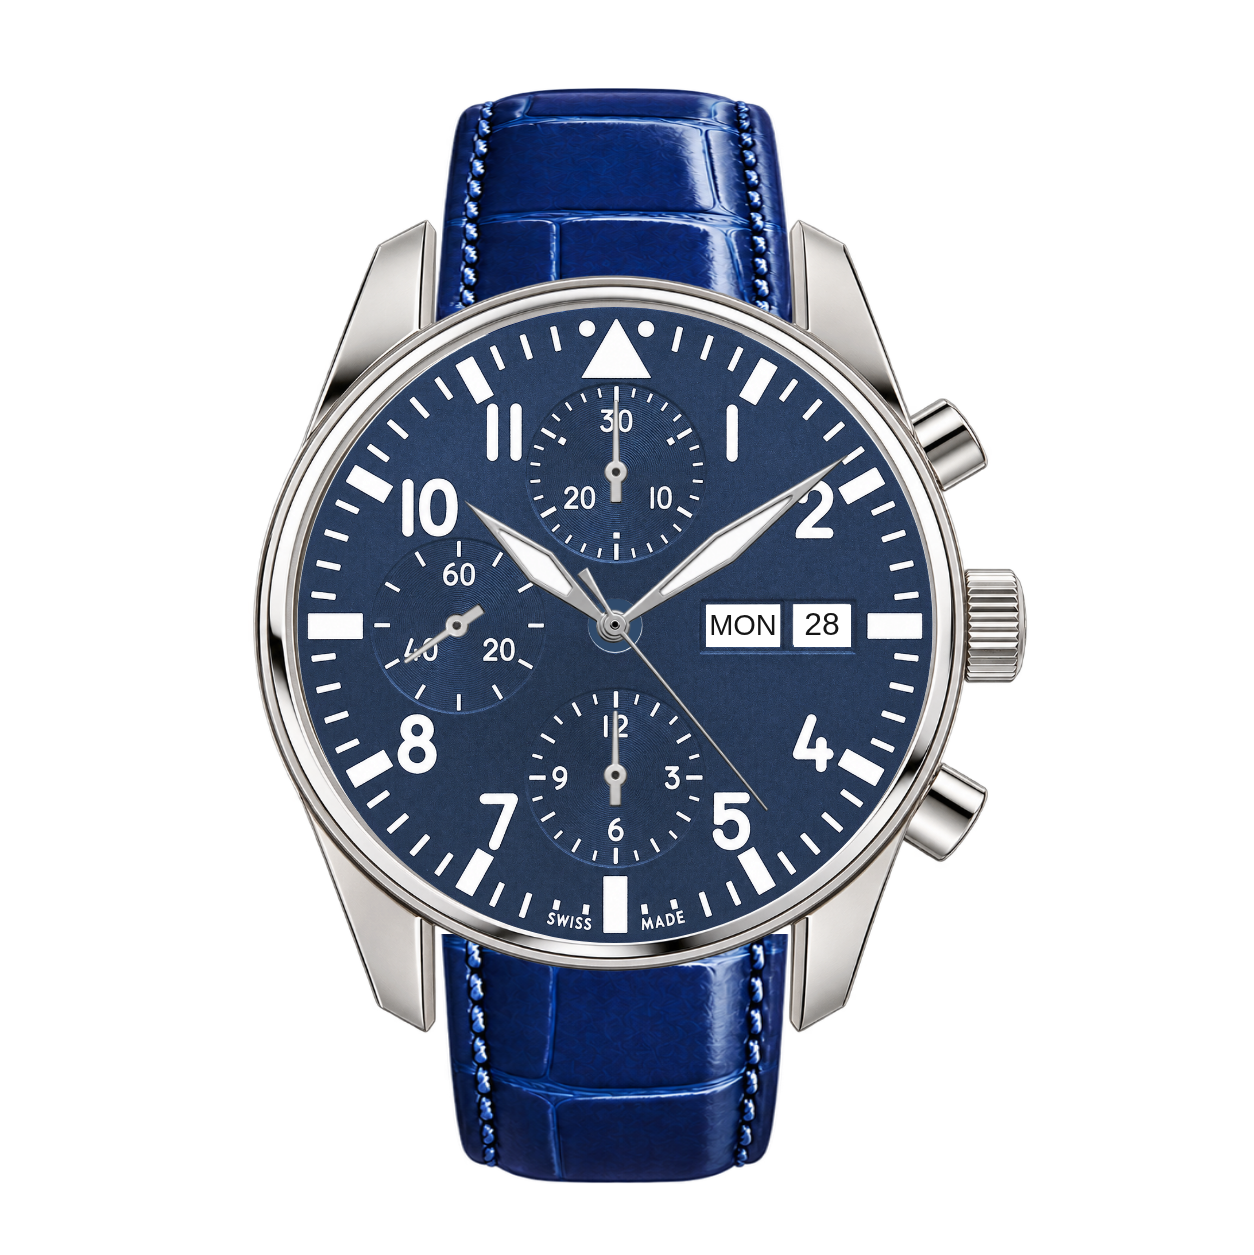
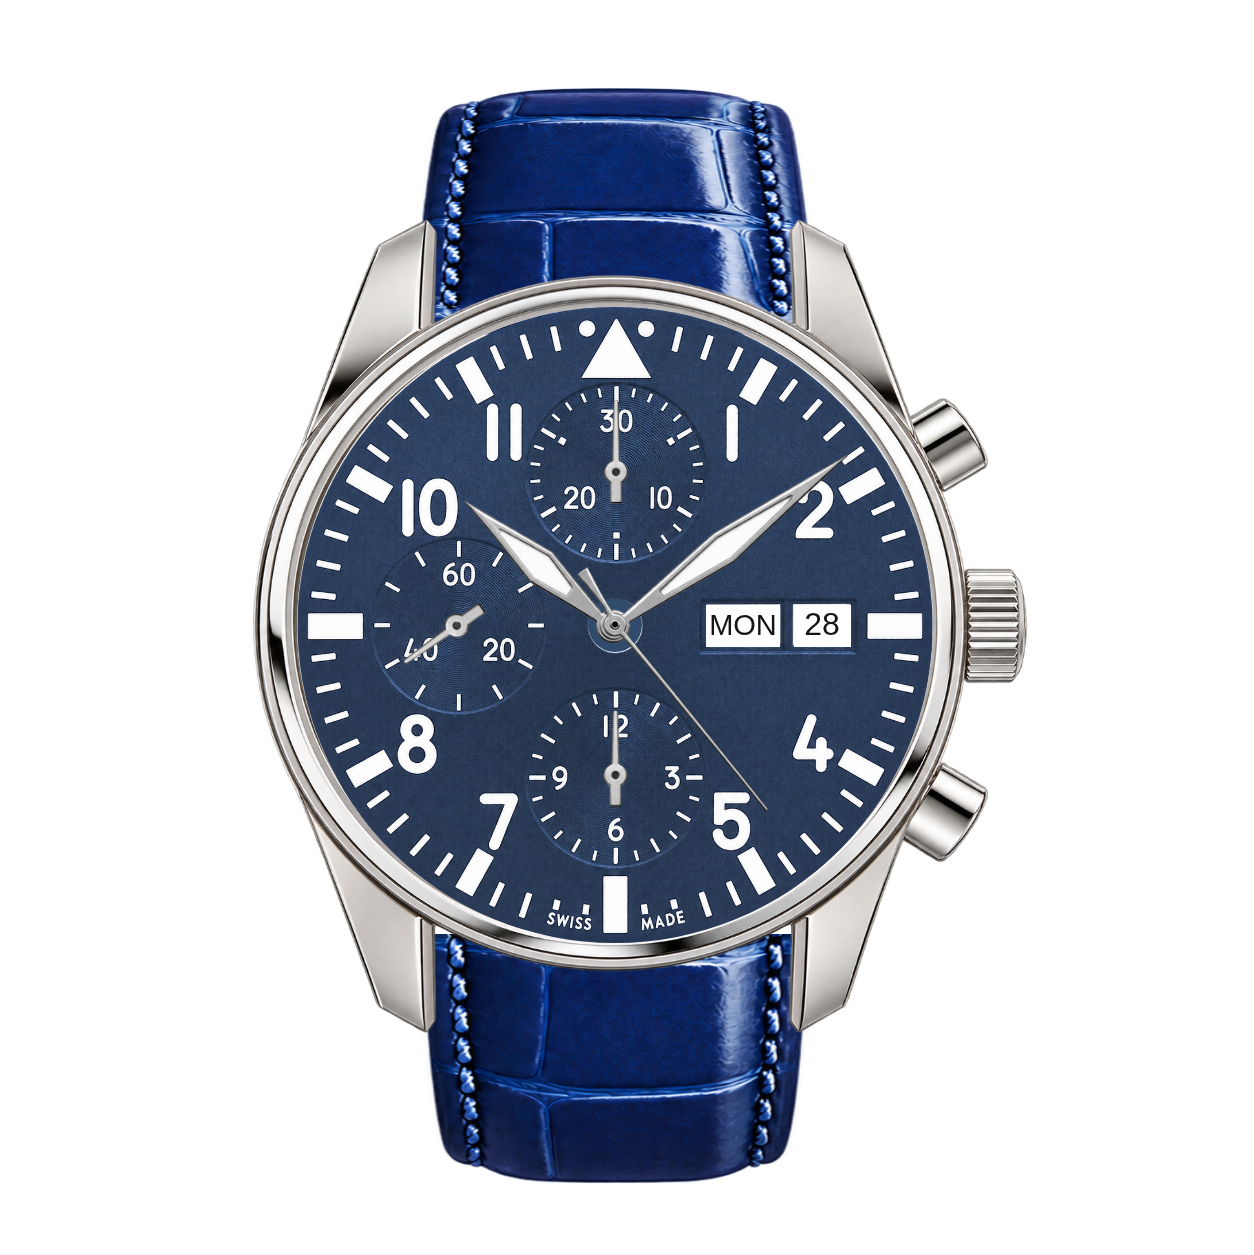
Close remaining gaps between strap edges and watch lugs

diff --git a/src/generated-pilot.js b/src/generated-pilot.js
@@ -5,8 +5,8 @@ export const pilotLayers=Object.freeze([{id:'strap',label:'Bracelet bleu fermé'
 export const pilotGeometry=Object.freeze({cx:615,cy:625,dialRadius:318,dialScale:318/554,caseScale:318/462,mainHandsScale:.44,counterHandsScale:.44});
 // Corrected closed strap silhouette, with narrow edges and fixed lug attachments.
 export const pilotStrapSlots=Object.freeze([
- Object.freeze({sx:476,sy:104,sw:303,sh:380,x:435,y:88,w:360,h:247}),
- Object.freeze({sx:476,sy:900,sw:303,sh:275,x:435,y:934,w:360,h:250})
+ Object.freeze({sx:476,sy:104,sw:303,sh:380,x:413,y:88,w:404,h:247}),
+ Object.freeze({sx:476,sy:900,sw:303,sh:275,x:413,y:934,w:404,h:250})
 ]);
 export function isPilotSelection(selection){return Object.entries(pilotSelection).every(([key,value])=>selection?.[key]===value);}
 let sequence=0;

diff --git a/REVIEW.md b/REVIEW.md
@@ -37,6 +37,10 @@ Pour les cinq couleurs, le ZIP contient seulement les cadrans bleu et noir. Les 
 
 Le cadran, la carrure, les aiguilles et MON/28 conservent leurs repères approuvés. Seul le bracelet est révisé : un nouveau calque transparent `strap-blue-closed-fitted.png` reprend le cuir bleu en supprimant les gros replis latéraux et en rapprochant les coutures des bords. Il s'agit d'une adaptation générée, pas d'une extraction exacte de l'image de référence. L'original du ZIP reste disponible sans modification.
 
-Les deux extrémités sont centrées sur l'axe 615, avec une largeur commune de 360 pixels. Le haut occupe les coordonnées `(435,88)` à `(795,335)` et le bas `(435,934)` à `(795,1184)`, derrière la carrure. Les zones visibles du cuir sont recadrées pour se rapprocher des deux panneaux de la référence. La date reste affichée conformément au prototype ; son absence dans la référence n'est pas reprise.
+Les deux extrémités sont centrées sur l'axe 615, avec une largeur commune de 404 pixels. Le haut occupe les coordonnées `(413,88)` à `(817,335)` et le bas `(413,934)` à `(817,1184)`, derrière la carrure. Les zones visibles du cuir sont recadrées pour se rapprocher des deux panneaux de la référence. La date reste affichée conformément au prototype ; son absence dans la référence n'est pas reprise.
 
 Le contrôle de captures avant/après vérifie que tous les pixels hors des zones du bracelet sont identiques. La silhouette et les raccords restent soumis à validation visuelle avant les autres variantes.
+
+### Raccord serré aux cornes
+
+Le bracelet a été élargi derrière les cornes pour supprimer les jours résiduels dus aux marges transparentes du PNG. Les points de contact sont contrôlés sur les deux côtés, en haut et en bas, à partir des pixels opaques des deux composants. Les repères de la tête et la longueur visible restent inchangés.
